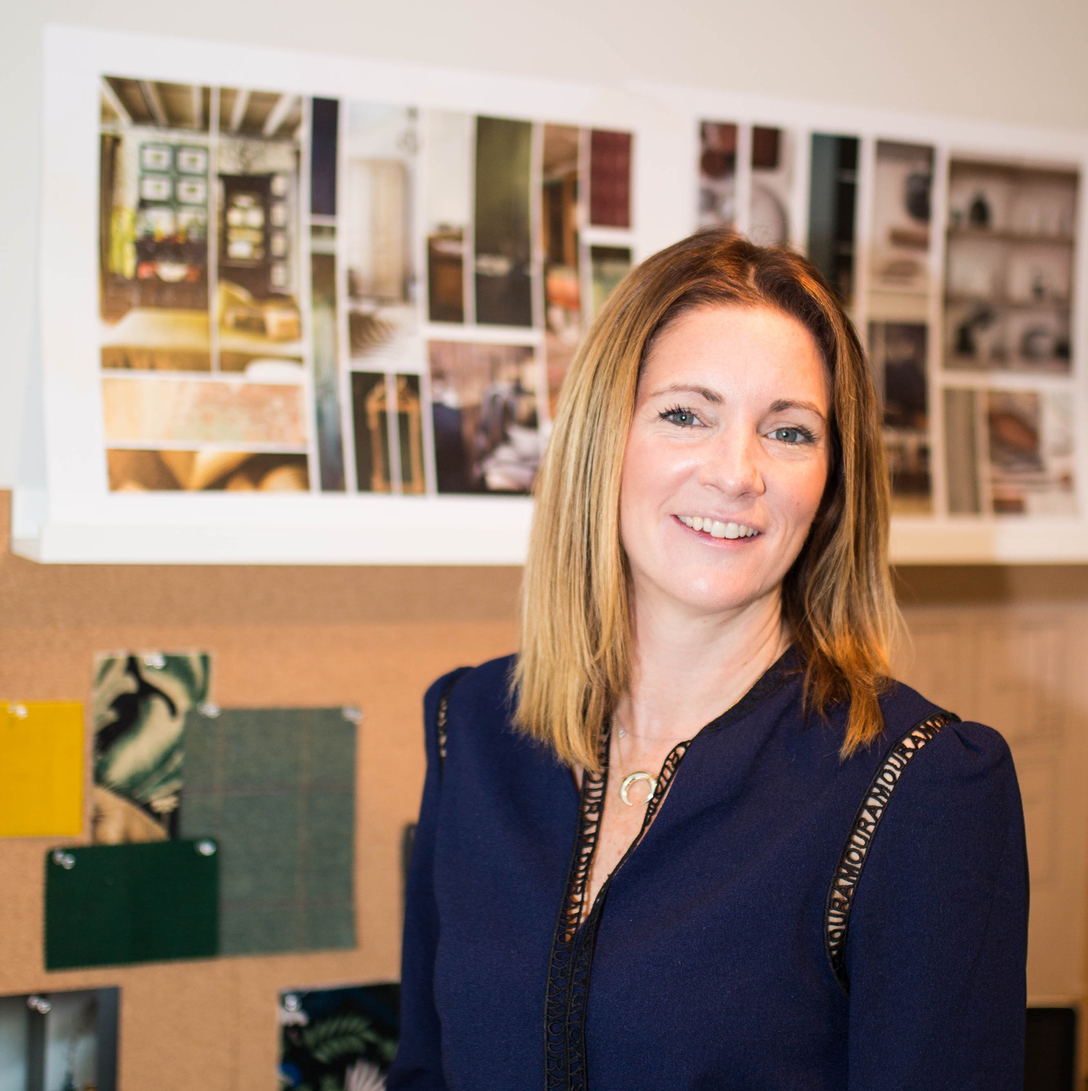
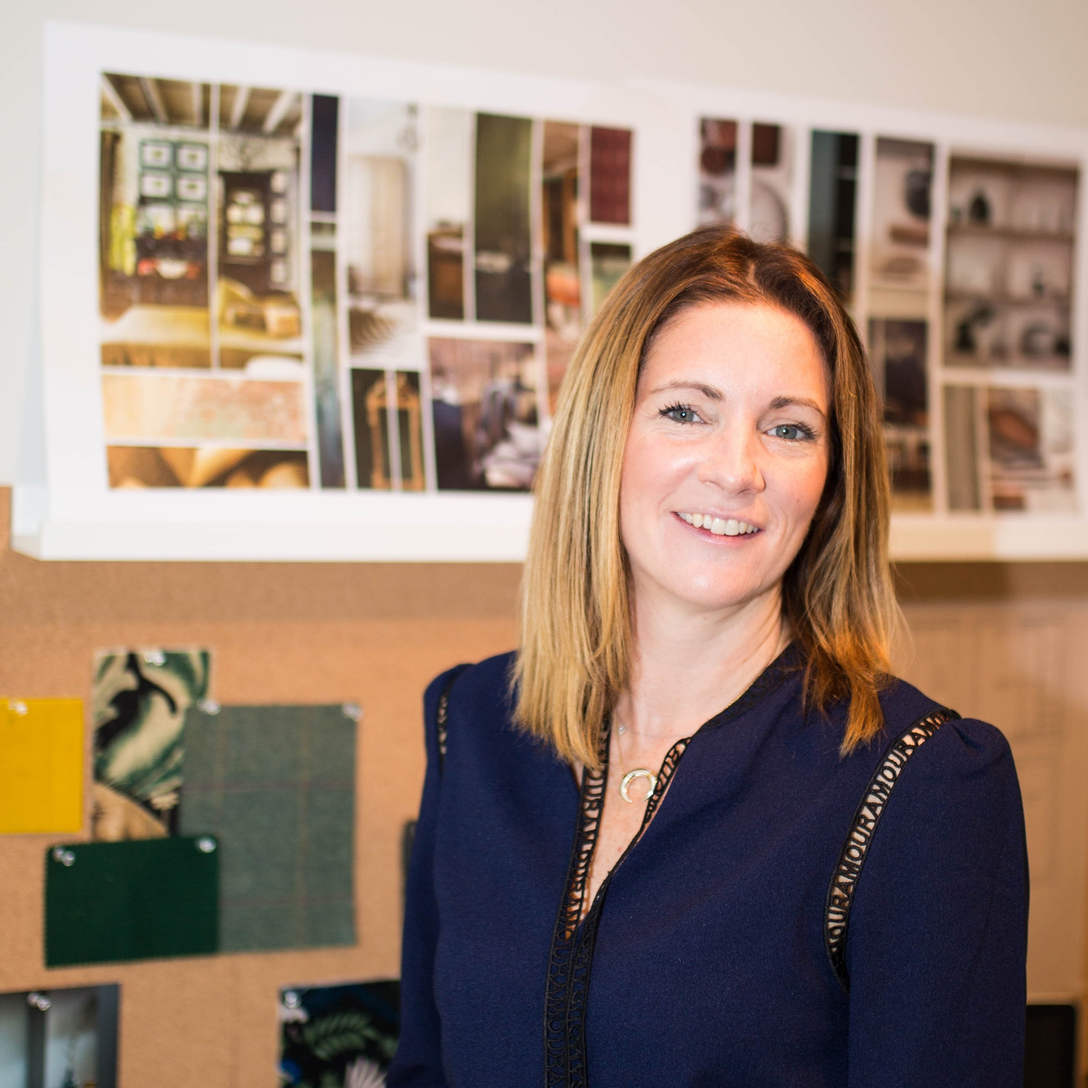
Rachel / Our team image

diff --git a/src/content/about/call-to-action-about-1.md b/src/content/about/call-to-action-about-1.md
@@ -1,17 +1,10 @@
 ---
 enable: true
 heading: "Our Team"
-image: "/images/head-shots/rachel.jpg"
-# Following a successful career in fashion, Rachel retrained in interior design.  Combining all of her passions and years of knowledge and experience Rachel set up her own design practice specialising in residential interiors and events for both private clients and developers.
-# Our services are fully comprehensive and cover all aspects of home design and build, 
+image: /images/head-shots/rachel-x800.webp
+description: "We’re a design and build coordination company specializing in interior design. Based in Farnham, Surrey, we serve Hampshire, Surrey, Sussex, London, and beyond — happy to travel UK-wide and internationally for the right project.
 
-description: "We’re a design and build coordination company specializing in interior and event design.
-
-|Based in Farnham, Surrey, we serve Hampshire, Surrey, Sussex, London, and beyond — happy to travel UK-wide and internationally for the right project.
-
-|Founded by Rachel, driven by a passion to make stylish living accessible, we offer bespoke services ranging from design-only to full project management.
-
-|From concept to completion, we help you transform your home to suit your lifestyle with functional, beautiful spaces."
+|Founded by Rachel, driven by a passion to make stylish living accessible, we offer bespoke services ranging from design-only to full project management. From concept to completion, we help you transform your home to suit your lifestyle with functional, beautiful spaces."
 button:
   enable: false
   label: "Our Services"
